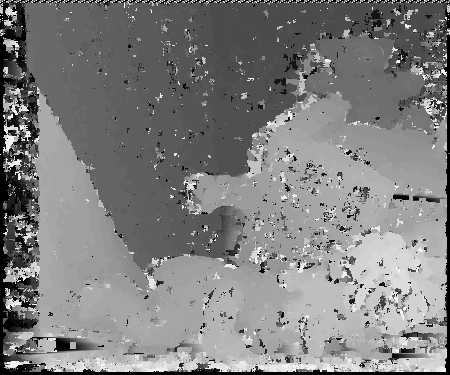
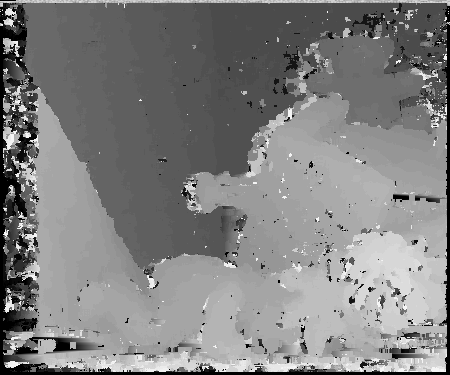
using hamming distance for census

diff --git a/stereo_matching.cpp b/stereo_matching.cpp
@@ -1,6 +1,25 @@
 #include <ppl.h>
 #include "ssd_stereo.h"
 
+
+
+#ifdef _WIN64 || _WIN32
+	// use __popcnt (windows) built-in function to count the number of 1 in integer 
+	static inline int HammingDistance(int a, int b) { return static_cast<int>(__popcnt(a ^ b)); }
+#else
+int HammingDistance(const int& a, const int& b) {
+	int d = a ^ b;
+	int res = 0;
+	while (d > 0) {
+		res += d & 1;
+		d >>= 1;
+	}
+	return res;
+}
+#endif
+// to calculate metric for census transform
+
+
 Mat Stereo::rank_transform(Mat image, int windowsize) {
 	int h = image.rows;
 	int w = image.cols;
@@ -79,8 +98,14 @@ Mat Stereo::stereo_match(Mat left, Mat right) {
 					for (int v = -window_half; v < window_half; ++v) {
 
 						for (int u = -window_half; u < window_half; ++u) {
+							if (cost_ == "census") {
 
-							ssd_tmp = left.at<uchar>(y + v, x + u) - right.at<uchar>(y + v, x + u - off);
+								ssd_tmp = HammingDistance(left.at<uchar>(y + v, x + u), right.at<uchar>(y + v, x + u - off));
+								//ssd_tmp = hamming_distance(left.at<uchar>(y + v, x + u), right.at<uchar>(y + v, x + u - off));
+							}
+							else {
+								ssd_tmp = left.at<uchar>(y + v, x + u) - right.at<uchar>(y + v, x + u - off);
+							}
 							ssd += ssd_tmp * ssd_tmp;
 						}
 
@@ -110,7 +135,12 @@ Mat Stereo::stereo_match(Mat left, Mat right) {
 
 						for (int u = -window_half; u < window_half; ++u) {
 
-							ssd_tmp = left.at<uchar>(y + v, x + u) - right.at<uchar>(y + v, x + u - off);
+							if (cost_ == "census") {
+								ssd_tmp = HammingDistance(left.at<uchar>(y + v, x + u), right.at<uchar>(y + v, x + u - off));
+							}
+							else {
+								ssd_tmp = left.at<uchar>(y + v, x + u) - right.at<uchar>(y + v, x + u - off);
+							}
 							ssd += ssd_tmp * ssd_tmp;
 						}
 
@@ -133,7 +163,7 @@ Mat Stereo::stereo_match(Mat left, Mat right) {
 }
 
 
-//vc++ concurrency implementation of parallel execution, but slower than openMP
+//vc++ concurrency implementation of parallel execution, but slower than openMP, not good for census
 //
 Mat Stereo::stereo_match_parallel(Mat left, Mat right) {
 	int h = left.rows;
@@ -155,7 +185,12 @@ Mat Stereo::stereo_match_parallel(Mat left, Mat right) {
 
 					for (int u = -window_half; u < window_half; u++) {
 
-						ssd_tmp = left.at<uchar>(y + v, x + u) - right.at<uchar>(y + v, x + u - off);
+						if (cost_ == "census") {
+							ssd_tmp = HammingDistance(left.at<uchar>(y + v, x + u), right.at<uchar>(y + v, x + u - off));
+						}
+						else {
+							ssd_tmp = left.at<uchar>(y + v, x + u) - right.at<uchar>(y + v, x + u - off);
+						}
 						ssd += ssd_tmp * ssd_tmp;
 					}
 

diff --git a/ssd_stereo.h b/ssd_stereo.h
@@ -15,9 +15,9 @@ private:
 public:
 	
 	Stereo(int window_size, int max_dis, int tran_size,string cost, bool parallel) {
-		win_size_ = window_size;
+		win_size_ = window_size;  // block size 
 		max_disparity_ = max_dis;
-		tran_win_size_ = tran_size;
+		tran_win_size_ = tran_size; // matching cost windows size
 		cost_ = cost;
 		parallel_ = parallel;
 	}
